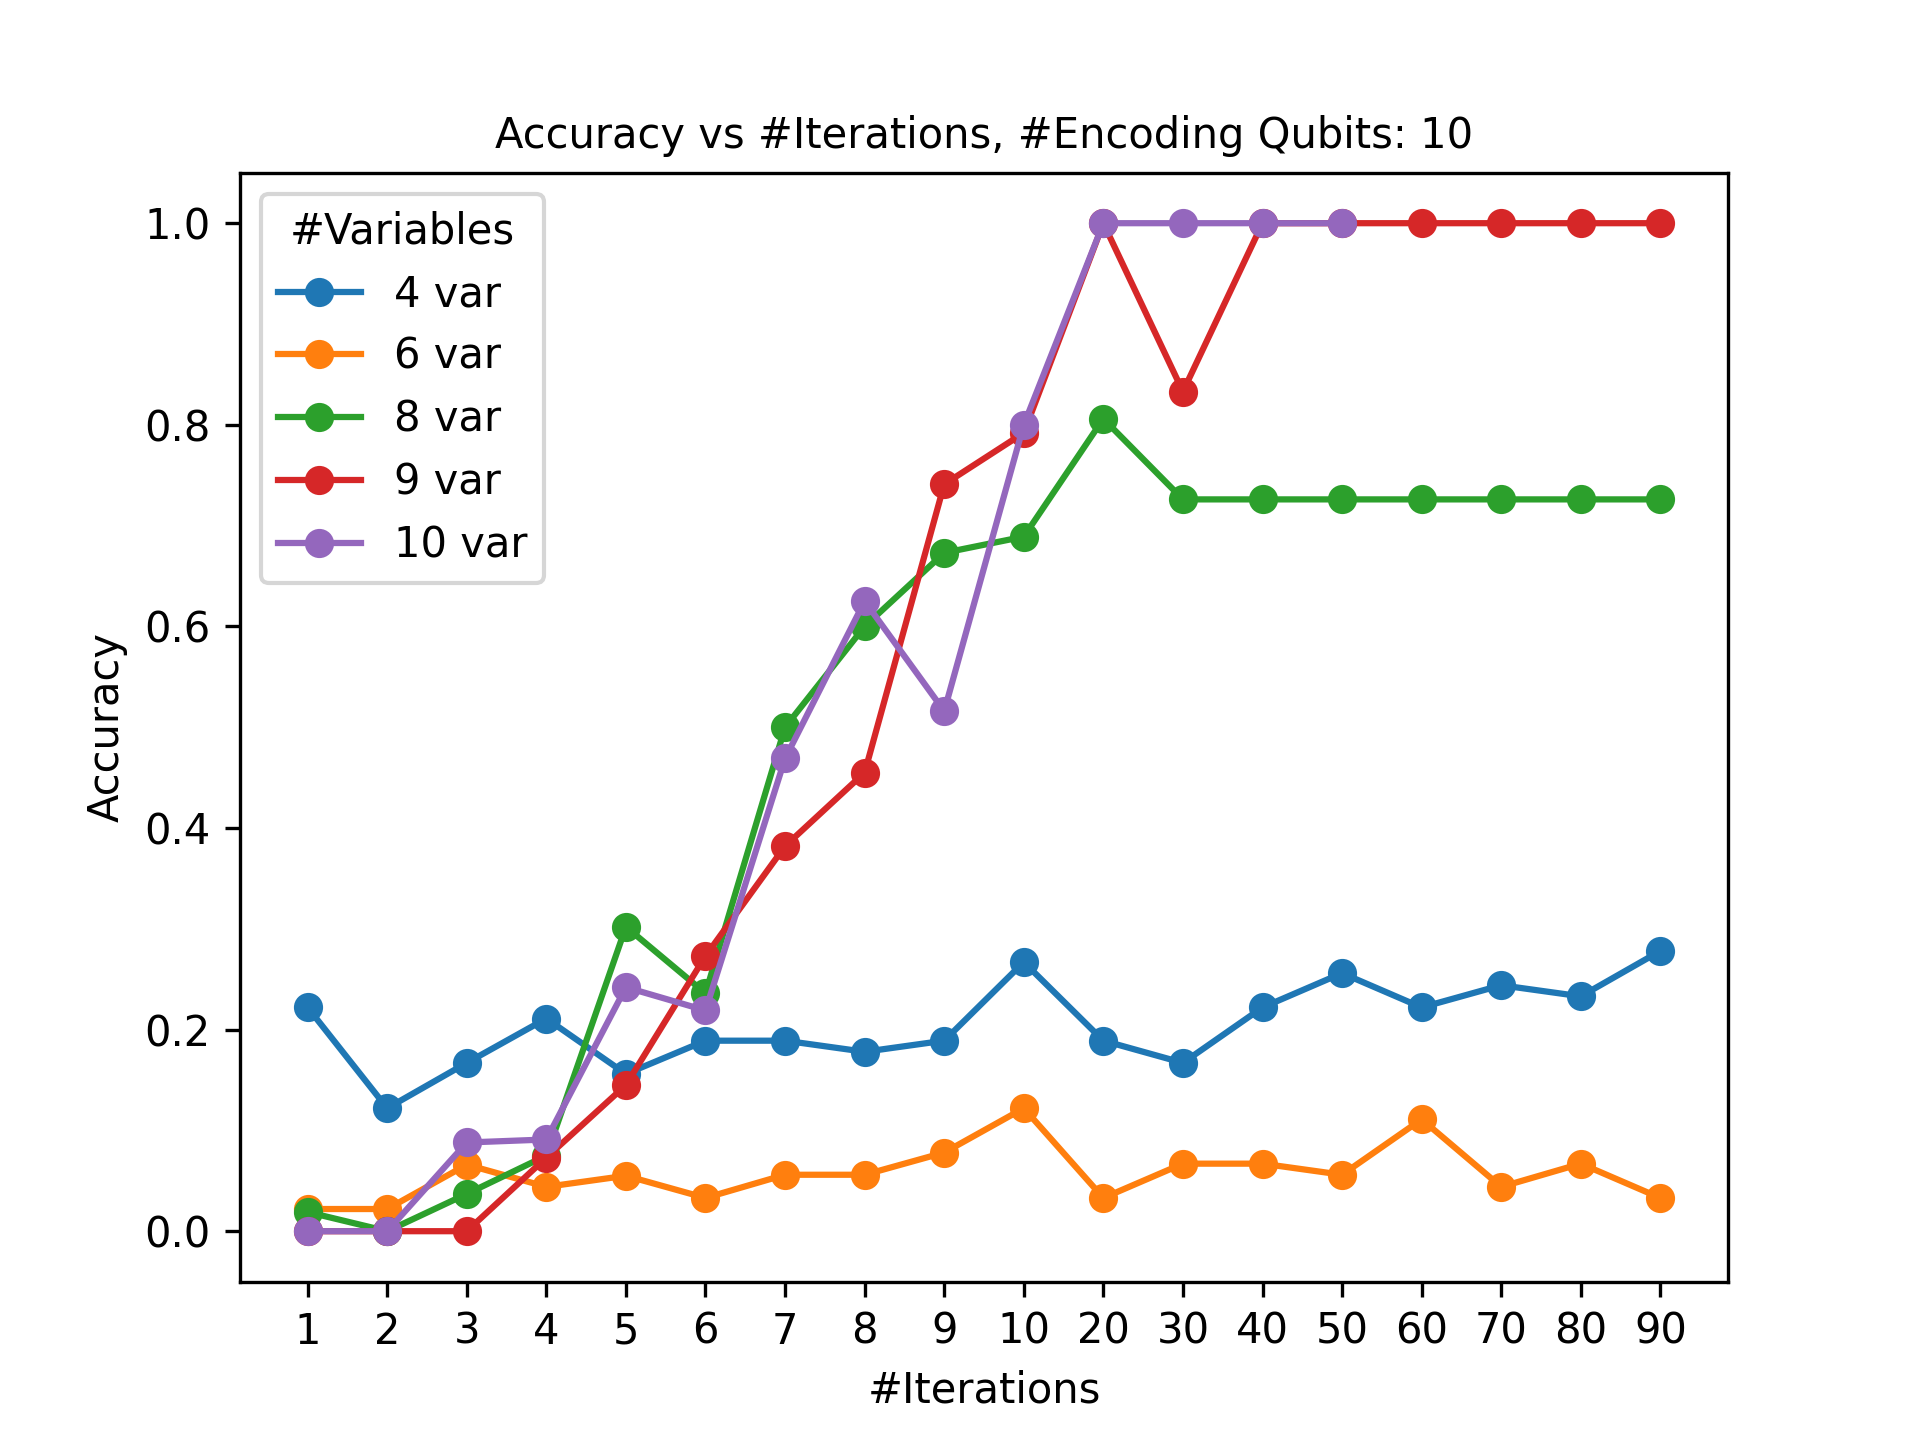
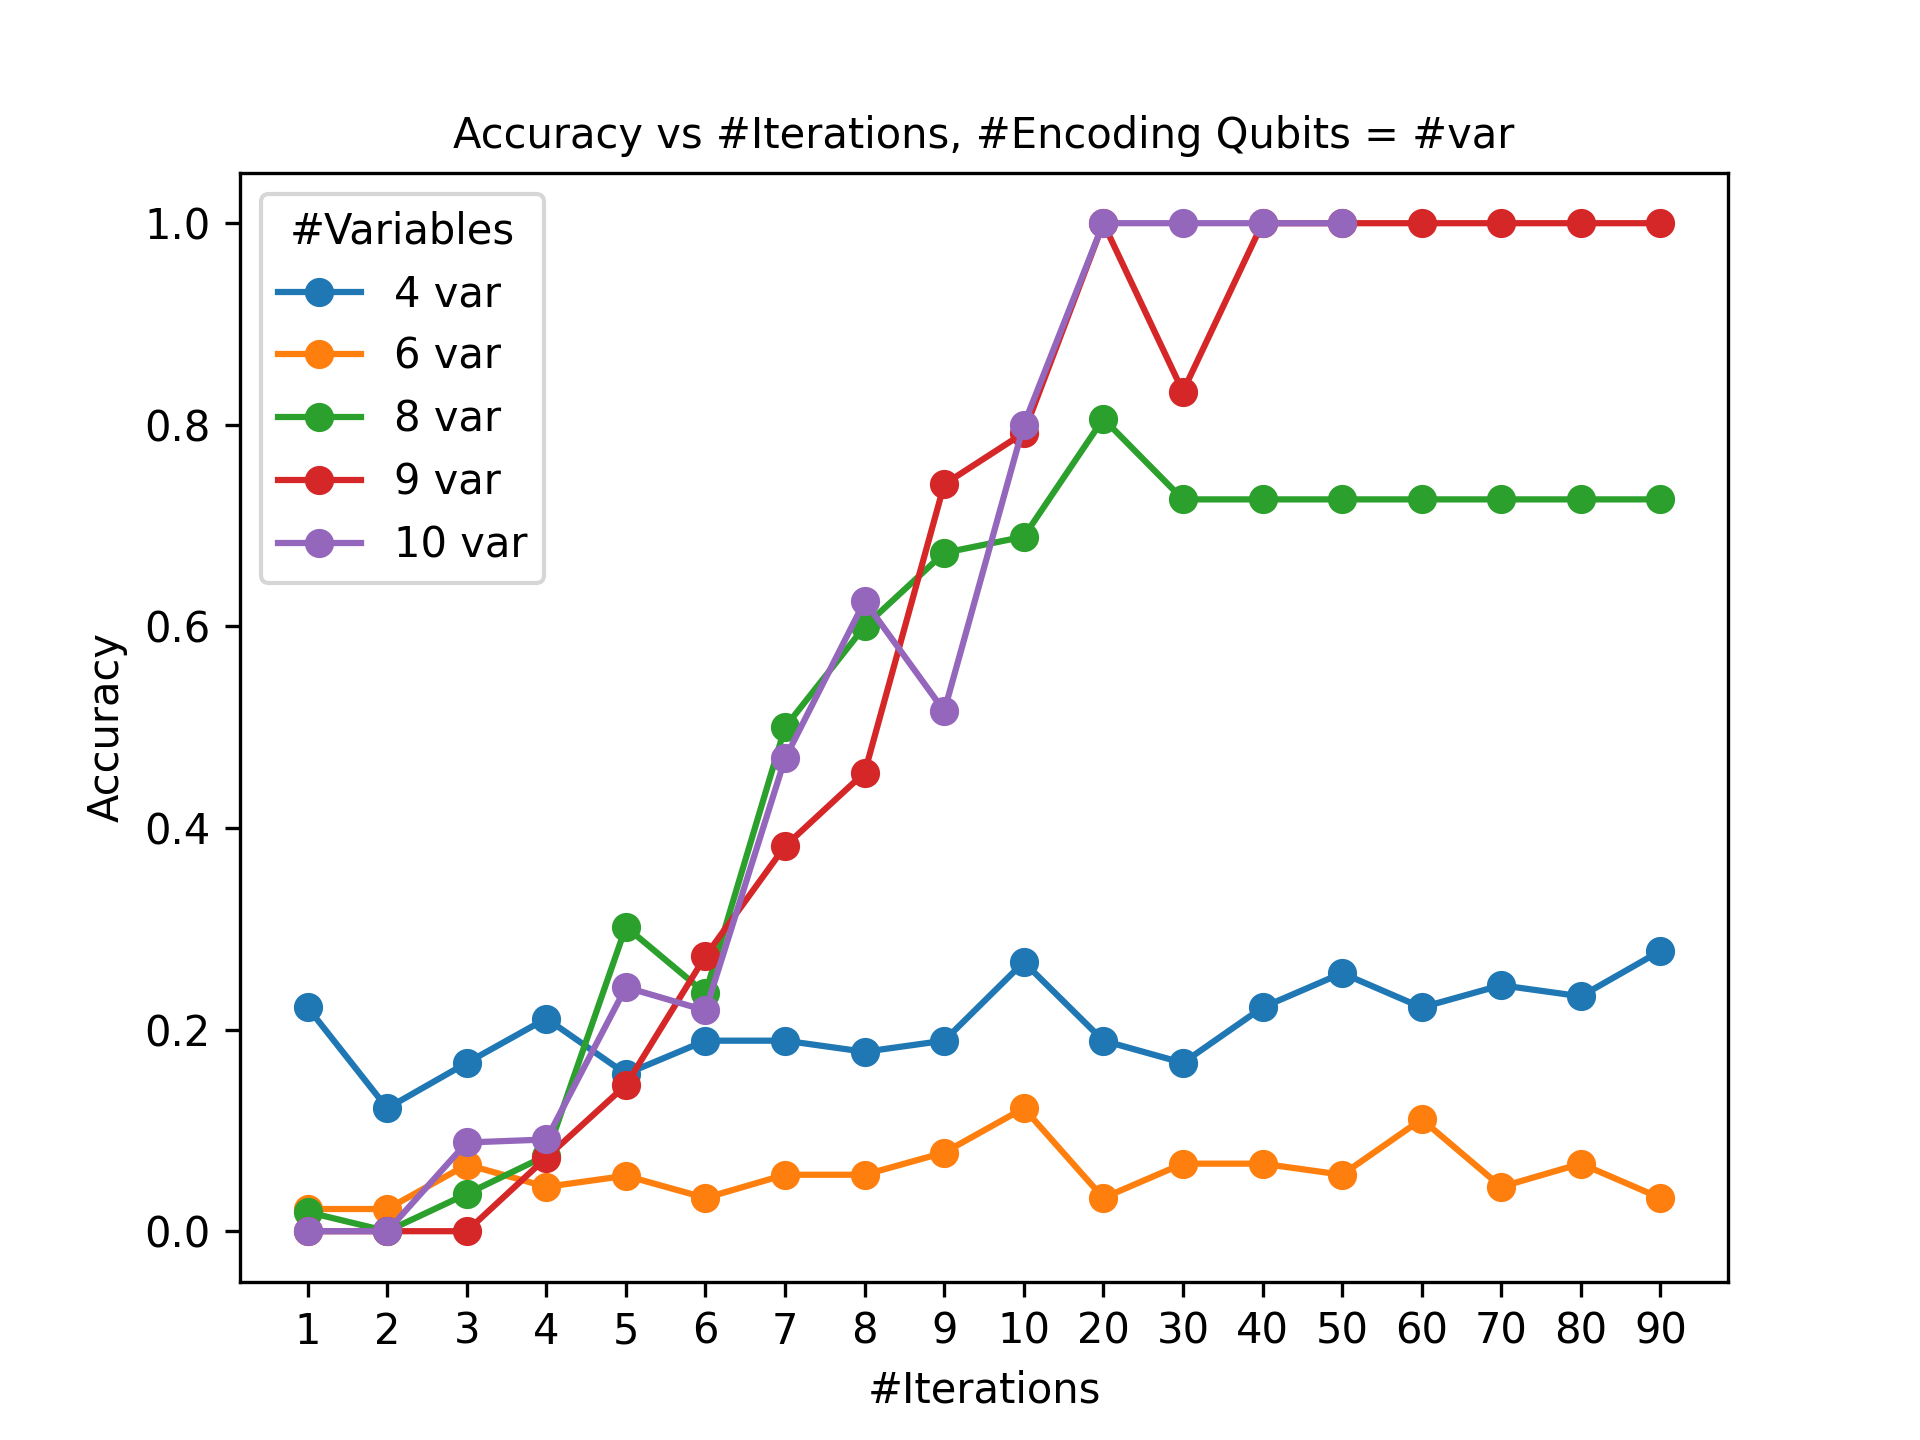
sistemati plots

Changed region(s): [[0.25, 0.0625, 0.7812, 0.125]]

diff --git a/GroverOptimizer/GrOp_visualization.py b/GroverOptimizer/GrOp_visualization.py
@@ -62,13 +62,14 @@ def main(verbose = False):
 
             # create plots of accuracy and time vs #iterations
             axs_iter_acc.plot(number_of_iterations.astype('str'), accuracies_iter, '-o', label=f'{i} var')
-            axs_iter_acc.set_title(f'Accuracy vs #Iterations, #Encoding Qubits: {i}', fontsize = 10)
+            axs_iter_acc.set_title(f'Accuracy vs #Iterations, #Encoding Qubits = #var', fontsize = 10)
             axs_iter_acc.set(xlabel='#Iterations', ylabel='Accuracy')
             axs_iter_acc.legend(title='#Variables', loc='upper left')
 
             axs_iter_time.plot(number_of_iterations.astype('str'), times_iter, '-o', label=f'{i} var')
-            axs_iter_time.set_title(f'Execution Time (s) vs #Iterations, #Encoding Qubits: {i}', fontsize = 10)
+            axs_iter_time.set_title(f'Execution Time (s) vs #Iterations, #Encoding Qubits = #var', fontsize = 10)
             axs_iter_time.set(xlabel='#Iterations', ylabel='Time (s)')
+            axs_iter_time.set_yscale('log')
             axs_iter_time.legend(title='#Variables', loc='upper left')
 
             # fig_iter.savefig(f"{plot_path}GrOp_{i}var_iter.png", dpi=300)
@@ -119,6 +120,7 @@ def main(verbose = False):
             axs_enc_time.plot(encoding_qubits.astype('str'), times_enc, '-o', label=f'{i} var')
             axs_enc_time.set_title(f'Time (s) vs #Encoding qubits, #Iterations: 9', fontsize = 10)
             axs_enc_time.set(xlabel='#Encoding qubits', ylabel='Time (s)')
+            axs_enc_time.set_yscale('log')
             axs_enc_time.legend(title='#Variables', loc='upper left')
 
             # fig_enc.savefig(f"{plot_path}GrOp_{i}var_enc.png", dpi=300)
